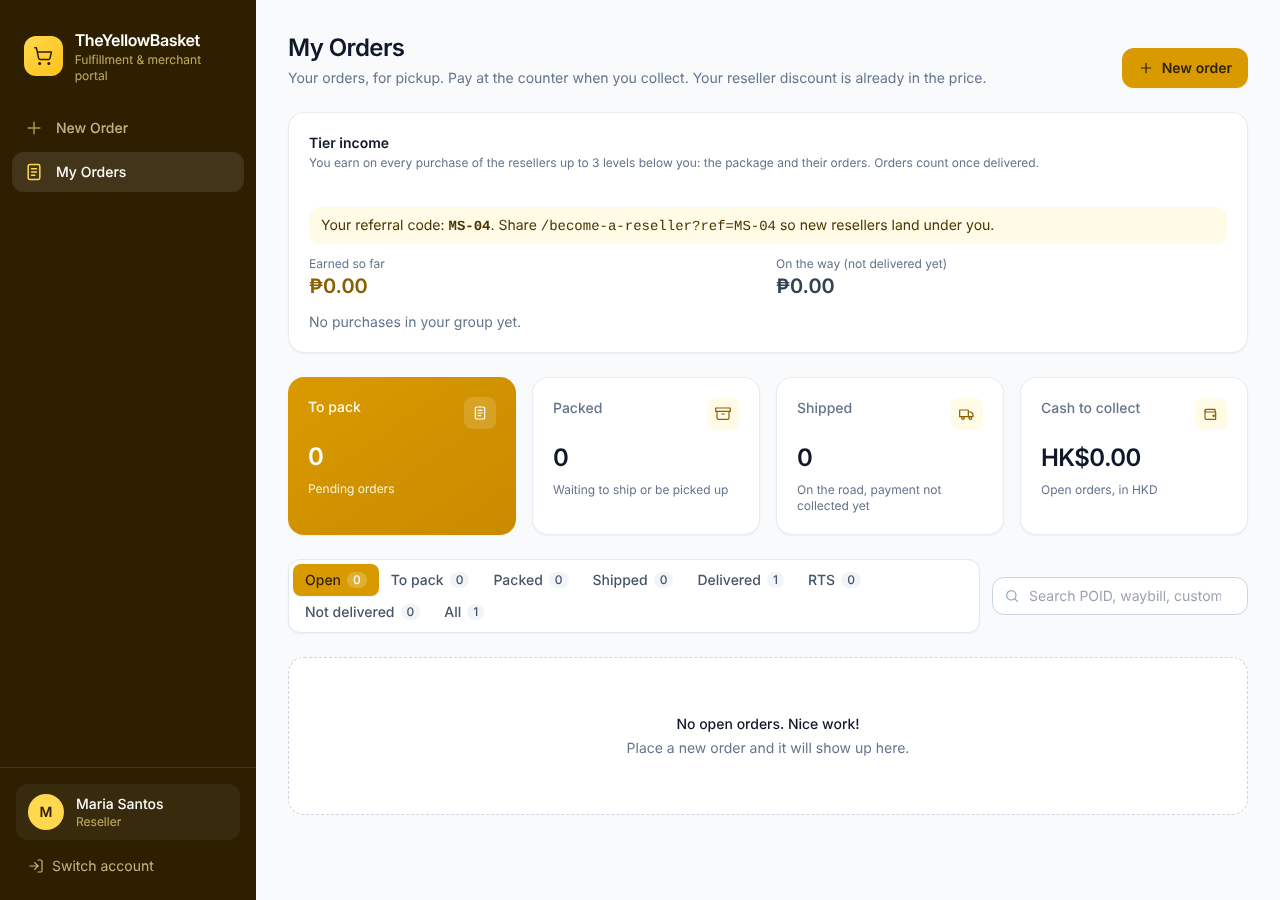
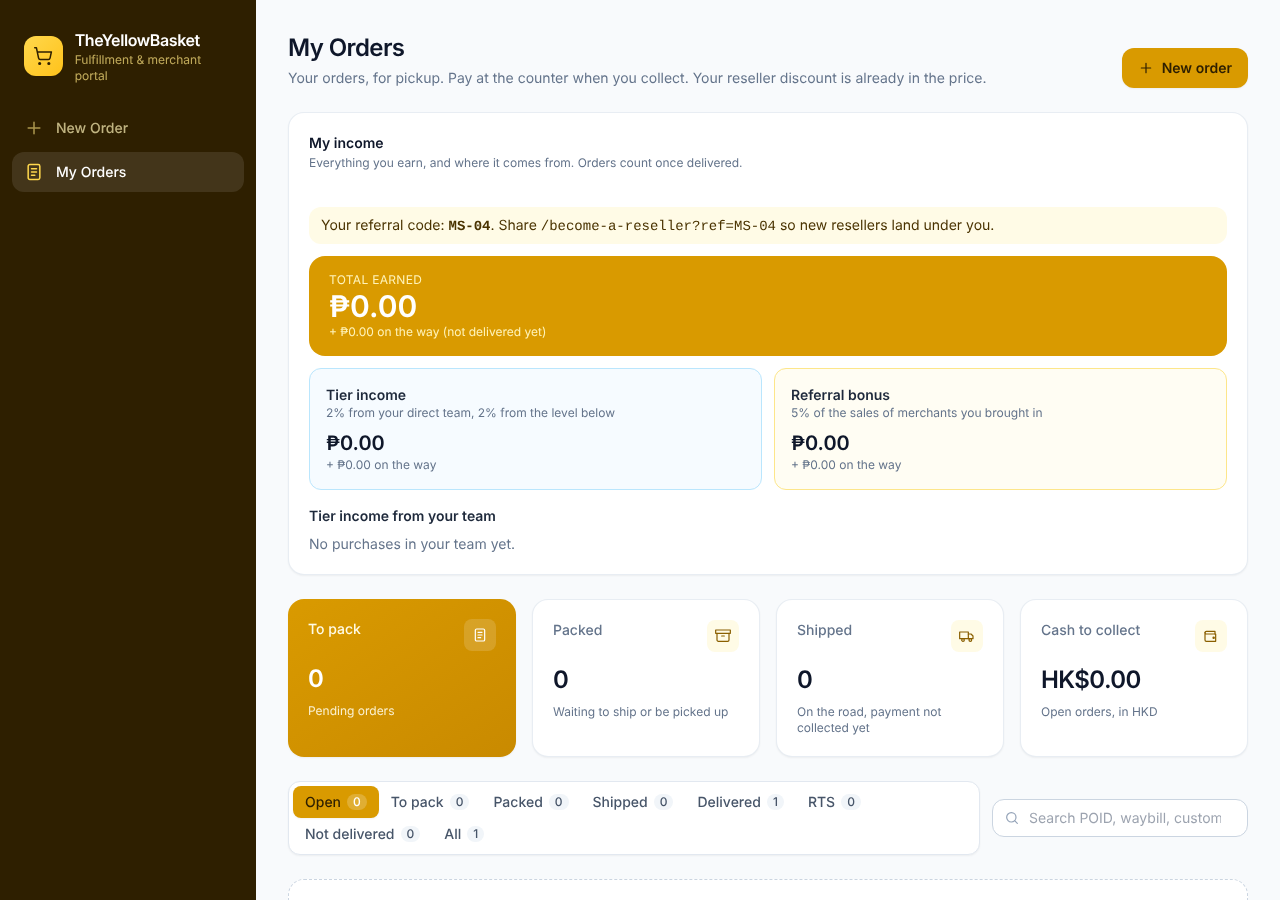
Referral bonus: referrer per merchant, income wallet with tier and referral breakdown
Claude-Session: https://claude.ai/code/session_01PscwmJvon7EWf21vZUWiBD

diff --git a/components/orders/IncomeWalletCard.tsx b/components/orders/IncomeWalletCard.tsx
@@ -1,0 +1,94 @@
+'use client';
+
+import { useMemo } from 'react';
+import { Card } from '@/components/ui/Card';
+import { formatCurrency, formatDate } from '@/lib/format';
+import { tierIncome } from '@/lib/orders';
+import { referralRows } from '@/lib/referral';
+import { useAppData } from '@/lib/store';
+import type { Order, PackageSale } from '@/lib/types';
+
+/** A reseller's income wallet: the total, and where each peso came from (tier income, referral bonus). */
+export function IncomeWalletCard({ userId, sales, orders, refCode }: { userId: string; sales: PackageSale[]; orders: Order[]; refCode?: string }) {
+  const { costing, merchants } = useAppData();
+  const tier = useMemo(() => tierIncome(sales, orders, userId), [sales, orders, userId]);
+  const referral = useMemo(() => referralRows(costing, merchants, orders, userId), [costing, merchants, orders, userId]);
+  const referralEarned = referral.reduce((n, r) => n + r.earnedPhp, 0);
+  const referralPending = referral.reduce((n, r) => n + r.pendingPhp, 0);
+  const total = tier.total + referralEarned;
+  const pending = tier.pending + referralPending;
+  const { tierL1Pct, tierL2Pct, referrerPct } = costing.settings;
+
+  const source = (title: string, hint: string, earned: number, onTheWay: number, tone: string) => (
+    <div className={`rounded-xl border p-4 ${tone}`}>
+      <p className="text-sm font-semibold text-slate-800">{title}</p>
+      <p className="text-xs text-slate-500">{hint}</p>
+      <p className="mt-2 text-xl font-semibold text-slate-900">{formatCurrency(earned)}</p>
+      <p className="text-xs text-slate-500">+ {formatCurrency(onTheWay)} on the way</p>
+    </div>
+  );
+
+  return (
+    <Card title="My income" subtitle="Everything you earn, and where it comes from. Orders count once delivered.">
+      {refCode ? (
+        <p className="mt-3 rounded-xl bg-emerald-50 px-3 py-2 text-sm text-emerald-900">
+          Your referral code: <span className="font-mono font-semibold">{refCode}</span>. Share{' '}
+          <span className="font-mono">/become-a-reseller?ref={refCode}</span> so new resellers land under you.
+        </p>
+      ) : null}
+
+      <div className="mt-3 rounded-2xl bg-emerald-500 px-5 py-4 text-emerald-950">
+        <p className="text-xs font-medium uppercase tracking-wide text-emerald-950/70">Total earned</p>
+        <p className="text-3xl font-semibold text-emerald-950">{formatCurrency(total)}</p>
+        <p className="text-xs text-emerald-950/70">+ {formatCurrency(pending)} on the way (not delivered yet)</p>
+      </div>
+
+      <div className="mt-3 grid gap-3 sm:grid-cols-2">
+        {source('Tier income', `${tierL1Pct}% from your direct team, ${tierL2Pct}% from the level below`, tier.total, tier.pending, 'border-sky-200 bg-sky-50/60')}
+        {source('Referral bonus', `${referrerPct}% of the sales of merchants you brought in`, referralEarned, referralPending, 'border-amber-200 bg-amber-50/60')}
+      </div>
+
+      {referral.length > 0 ? (
+        <div className="mt-4">
+          <p className="text-sm font-semibold text-slate-800">Merchants you brought in</p>
+          <ul className="mt-2 divide-y divide-slate-100 rounded-xl border border-slate-100 text-sm">
+            {referral.map((row) => (
+              <li key={row.merchantId} className="flex flex-wrap items-center justify-between gap-2 px-3 py-2">
+                <span>
+                  {row.merchantName}
+                  <span className="ml-2 text-xs text-slate-500">{row.orders} delivered order{row.orders === 1 ? '' : 's'}</span>
+                </span>
+                <span className="font-semibold text-emerald-700">
+                  {formatCurrency(row.earnedPhp)}
+                  {row.pendingPhp > 0 ? <span className="ml-2 text-xs font-normal text-slate-500">+ {formatCurrency(row.pendingPhp)} on the way</span> : null}
+                </span>
+              </li>
+            ))}
+          </ul>
+        </div>
+      ) : null}
+
+      <div className="mt-4">
+        <p className="text-sm font-semibold text-slate-800">Tier income from your team</p>
+        {tier.rows.length === 0 ? (
+          <p className="mt-2 text-sm text-slate-500">No purchases in your team yet.</p>
+        ) : (
+          <ul className="mt-2 divide-y divide-slate-100 rounded-xl border border-slate-100 text-sm">
+            {tier.rows.slice(0, 10).map((row) => (
+              <li key={`${row.ref}-${row.level}`} className="flex flex-wrap items-center justify-between gap-2 px-3 py-2">
+                <span>
+                  {row.name}
+                  <span className="ml-2 text-xs text-slate-500">
+                    {row.kind === 'package' ? 'Package' : row.ref} · Level {row.level} · {formatDate(row.date)}
+                    {row.earned ? '' : ' · on the way'}
+                  </span>
+                </span>
+                <span className={`font-semibold ${row.earned ? 'text-emerald-700' : 'text-slate-500'}`}>{formatCurrency(row.php)}</span>
+              </li>
+            ))}
+          </ul>
+        )}
+      </div>
+    </Card>
+  );
+}

diff --git a/components/resellers/ResellersView.tsx b/components/resellers/ResellersView.tsx
@@ -7,13 +7,14 @@ import { InviteActions } from '@/components/team/InviteActions';
 import { StatCard } from '@/components/ui/StatCard';
 import { useAuth } from '@/lib/auth';
 import { formatCurrency, formatDate, formatHkd } from '@/lib/format';
+import { referralRows } from '@/lib/referral';
 import { resellerLedger, resellerSummaries } from '@/lib/reseller';
 import { useAppData } from '@/lib/store';
 
 /** Admin and cashier: every reseller, what they got in discount and tier income, and the split of each purchase. */
 export function ResellersView() {
   const { user } = useAuth();
-  const { users, items, orders, packageSales, costing, outbox } = useAppData();
+  const { users, items, orders, packageSales, costing, outbox, merchants, setMerchantReferrer } = useAppData();
   const { settings } = costing;
   const nameOf = (id: string) => users.find((candidate) => candidate.id === id)?.name ?? id;
   const ledger = useMemo(() => resellerLedger(orders, packageSales, items, settings.markupPct, settings.referrerPct + settings.systemFeePct), [orders, packageSales, items, settings.markupPct, settings.referrerPct, settings.systemFeePct]);
@@ -40,6 +41,51 @@ export function ResellersView() {
           <StatCard label="Tier income paid" value={formatCurrency(tierPaid)} hint={`up to ${tierPct}% of the SRP`} />
           <StatCard label="SDSI net" value={formatCurrency(sum((row) => row.netPhp))} hint="top-up − discount − tier income" variant="primary" />
         </div>
+      ) : null}
+
+      {user.role === 'admin' ? (
+        <Card title="Referral bonus" subtitle={`Whoever brought a merchant in earns ${settings.referrerPct}% of that merchant's Net SRP on every delivered order. Pick the referrer of each merchant.`}>
+          <div className="mt-3 overflow-x-auto">
+            <table className="min-w-full text-sm">
+              <thead className="text-left text-xs text-slate-500">
+                <tr>
+                  <th className="py-2 pr-4 font-medium">Merchant</th>
+                  <th className="py-2 pr-4 font-medium">Referrer</th>
+                  <th className="py-2 pr-4 text-right font-medium">Delivered orders</th>
+                  <th className="py-2 pr-4 text-right font-medium">Bonus earned</th>
+                  <th className="py-2 text-right font-medium">On the way</th>
+                </tr>
+              </thead>
+              <tbody className="divide-y divide-slate-100">
+                {merchants.map((merchant) => {
+                  const link = (costing.referrals ?? []).find((candidate) => candidate.merchantId === merchant.id);
+                  const row = link ? referralRows(costing, merchants, orders, link.userId).find((r) => r.merchantId === merchant.id) : undefined;
+                  return (
+                    <tr key={merchant.id}>
+                      <td className="py-2 pr-4 font-medium text-slate-800">{merchant.name}</td>
+                      <td className="py-2 pr-4">
+                        <select
+                          aria-label={`Referrer of ${merchant.name}`}
+                          value={link?.userId ?? ''}
+                          onChange={(event) => void setMerchantReferrer(user, merchant.id, event.target.value || null)}
+                          className="rounded-lg border border-slate-300 bg-white px-2 py-1.5 text-sm"
+                        >
+                          <option value="">No referrer</option>
+                          {users.filter((candidate) => candidate.role === 'customer').map((candidate) => (
+                            <option key={candidate.id} value={candidate.id}>{candidate.name}</option>
+                          ))}
+                        </select>
+                      </td>
+                      <td className="py-2 pr-4 text-right">{row?.orders ?? '—'}</td>
+                      <td className="py-2 pr-4 text-right font-semibold text-emerald-700">{row ? formatCurrency(row.earnedPhp) : '—'}</td>
+                      <td className="py-2 text-right text-slate-500">{row ? formatCurrency(row.pendingPhp) : '—'}</td>
+                    </tr>
+                  );
+                })}
+              </tbody>
+            </table>
+          </div>
+        </Card>
       ) : null}
 
       <Card title="Resellers" subtitle="Delivered orders only. The package counts once it is paid.">

diff --git a/lib/store.tsx b/lib/store.tsx
@@ -26,7 +26,7 @@ import {
   MOCK_USERS,
   MOCK_PACKAGE_SALES,
 } from './mock-data';
-import type { CostingRow, CostingSettings, CostingState } from './costing';
+import type { CostingRow, CostingSettings, CostingState, ReferralLink } from './costing';
 import type {
   InventoryItem,
   MasterProduct,
@@ -152,6 +152,7 @@ export interface AppDataValue {
   goLiveCostingRow: (actor: Actor, rowId: string) => Promise<ActionResult<CostingRow>>;
   setSkuDisabled: (actor: Actor, itemId: string, disabled: boolean) => Promise<ActionResult<InventoryItem>>;
   setProgramMerchant: (actor: Actor, merchantId: string, on: boolean) => Promise<ActionResult<string[]>>;
+  setMerchantReferrer: (actor: Actor, merchantId: string, userId: string | null) => Promise<ActionResult<ReferralLink[]>>;
   setSkuReseller: (actor: Actor, itemId: string, inProgram: boolean) => Promise<ActionResult<InventoryItem>>;
   addSku: (actor: Actor, input: engine.NewSkuInput) => Promise<ActionResult<InventoryItem>>;
   setSkuSrp: (actor: Actor, itemId: string, srp: number) => Promise<ActionResult<InventoryItem>>;
@@ -188,6 +189,7 @@ const createInitialState = (): AppState => ({
     rows: MOCK_COSTING.rows.map((row) => ({ ...row })),
     log: [],
     programMerchantIds: [...MOCK_COSTING.programMerchantIds],
+    referrals: (MOCK_COSTING.referrals ?? []).map((link) => ({ ...link })),
   },
   users: MOCK_USERS.map((user) => ({ ...user })),
   outbox: [],
@@ -321,6 +323,8 @@ export function AppDataProvider({ children }: { children: ReactNode }) {
       approveCostingRow: (actor, rowId) => run((s) => engine.approveCostingRow(s, actor, rowId, nowISO())),
       revokeApproval: (actor, rowId) => run((s) => engine.revokeApproval(s, actor, rowId, nowISO())),
       goLiveCostingRow: (actor, rowId) => run((s) => engine.goLiveCostingRow(s, actor, rowId, nowISO())),
+      setMerchantReferrer: (actor, merchantId, userId) =>
+        run((st) => engine.setMerchantReferrer(st, actor, merchantId, userId, nowISO())),
       setProgramMerchant: (actor, merchantId, on) =>
         run((s) => engine.setProgramMerchant(s, actor, merchantId, on, nowISO())),
       setSkuReseller: (actor, itemId, inProgram) =>

diff --git a/lib/referral.ts b/lib/referral.ts
@@ -1,0 +1,37 @@
+import { roundMoney } from './format';
+import type { CostingState, ReferralLink } from './costing';
+import { orderTotal } from './orders';
+import type { Merchant, Order } from './types';
+
+export interface ReferralRow {
+  merchantId: string;
+  merchantName: string;
+  orders: number;
+  earnedPhp: number;
+  pendingPhp: number;
+}
+
+/** Stats of one referral link: 5% (or the set %) of the Net SRP of the merchant's orders. Delivered = earned, still open = on the way. */
+export function referralStats(orders: Order[], merchantId: string, pct: number): NonNullable<ReferralLink['stats']> {
+  let delivered = 0;
+  let open = 0;
+  let count = 0;
+  for (const order of orders) {
+    if (order.merchantId !== merchantId || order.status === 'cancelled' || order.status === 'rts') continue;
+    if (order.status === 'delivered') {
+      delivered += orderTotal(order);
+      count += 1;
+    } else open += orderTotal(order);
+  }
+  return { orders: count, earnedPhp: roundMoney((delivered * pct) / 100), pendingPhp: roundMoney((open * pct) / 100) };
+}
+
+/** The merchants a person brought in, with what they earned from each. Uses the server's numbers when present. */
+export function referralRows(costing: CostingState, merchants: Merchant[], orders: Order[], userId: string): ReferralRow[] {
+  return (costing.referrals ?? [])
+    .filter((link) => link.userId === userId)
+    .map((link) => {
+      const stats = link.stats ?? referralStats(orders, link.merchantId, costing.settings.referrerPct);
+      return { merchantId: link.merchantId, merchantName: merchants.find((m) => m.id === link.merchantId)?.name ?? link.merchantId, ...stats };
+    });
+}

diff --git a/lib/engine.ts b/lib/engine.ts
@@ -23,6 +23,7 @@ import {
   type CostingRow,
   type CostingSettings,
   type CostingState,
+  type ReferralLink,
 } from './costing';
 import { provisionReseller, validateCredentials } from './accounts';
 import { demandOfLines, emptySplit, expiryOf, holderAt, makeStockBook, moveUnits, reservedUnits } from './stock';
@@ -1114,6 +1115,27 @@ export function setProgramMerchant(
       programMerchantIds: ids,
     }),
     value: ids,
+  };
+}
+
+/** Admin: who brought a merchant in (earns the referral bonus), or null to clear. */
+export function setMerchantReferrer(
+  state: AppState,
+  actor: Actor,
+  merchantId: string,
+  userId: string | null,
+  now: string,
+): Outcome<ReferralLink[]> {
+  const denied = costingGuard(actor);
+  if (denied) return denied;
+  if (userId !== null && !state.users.some((user) => user.id === userId && user.role === 'customer')) return fail('Pick a reseller account as the referrer.');
+  const rest = (state.costing.referrals ?? []).filter((link) => link.merchantId !== merchantId);
+  const referrals = userId === null ? rest : [...rest, { merchantId, userId }];
+  const who = userId ? state.users.find((user) => user.id === userId)?.name ?? userId : 'nobody';
+  return {
+    ok: true,
+    state: logged(state, actor, now, 'Referrer of a merchant changed', [`${merchantId}: ${who}`], { referrals }),
+    value: referrals,
   };
 }
 

diff --git a/lib/server/scope.ts b/lib/server/scope.ts
@@ -3,6 +3,7 @@
  * so a merchant never holds another merchant's orders and a reseller never holds the costing.
  * Server only.
  */
+import { referralStats } from '../referral';
 import type { AppState } from '../engine';
 import { LEGACY_BRANCH, type InventoryItem, type MasterProduct, type Merchant, type Order, type PackageSale, type User } from '../types';
 
@@ -83,7 +84,11 @@ export function scopeFor(me: User, state: AppState, merchantList: Merchant[]): S
   }
 
   // Everyone but the admin gets the costing without the mark-up and its change log.
-  const costing = { ...state.costing, settings: { ...state.costing.settings, markupPct: 0 }, log: [] };
+  // A reseller sees only the merchants they brought in, with the numbers worked out here (they cannot see those orders).
+  const referrals = (state.costing.referrals ?? [])
+    .filter((link) => link.userId === me.id)
+    .map((link) => ({ ...link, stats: referralStats(state.orders, link.merchantId, state.costing.settings.referrerPct) }));
+  const costing = { ...state.costing, settings: { ...state.costing.settings, markupPct: 0 }, log: [], referrals };
 
   if (me.role === 'merchant') {
     const mine = (merchantId: string) => merchantId === me.merchantId;

diff --git a/components/orders/OrdersView.tsx b/components/orders/OrdersView.tsx
@@ -3,7 +3,7 @@
 import Link from 'next/link';
 import { useEffect, useMemo, useState } from 'react';
 import { OrderCard } from '@/components/orders/OrderCard';
-import { TierIncomeCard } from '@/components/orders/TierIncomeCard';
+import { IncomeWalletCard } from '@/components/orders/IncomeWalletCard';
 import { PageHeader } from '@/components/layout/PageHeader';
 import { Icon } from '@/components/ui/Icon';
 import { StatCard } from '@/components/ui/StatCard';
@@ -122,7 +122,7 @@ export function OrdersView() {
         }
       />
 
-      {isReseller && user ? <TierIncomeCard userId={user.id} sales={packageSales} orders={orders} refCode={user.refCode} /> : null}
+      {isReseller && user ? <IncomeWalletCard userId={user.id} sales={packageSales} orders={orders} refCode={user.refCode} /> : null}
 
       <div className="grid gap-4 sm:grid-cols-2 xl:grid-cols-4">
         <StatCard

diff --git a/lib/server/actions.ts b/lib/server/actions.ts
@@ -42,6 +42,7 @@ export const ACTIONS: Record<string, Handler> = {
   approveRelease: (st, ac, a, now) => engine.approveRelease(st, ac, s(a.remittanceId), now),
   rejectRelease: (st, ac, a, now) => engine.rejectRelease(st, ac, s(a.remittanceId), s(a.reason), now),
   setSkuDisabled: (st, ac, a, now) => engine.setSkuDisabled(st, ac, s(a.itemId), a.disabled === true, now),
+  setMerchantReferrer: (st, ac, a, now) => engine.setMerchantReferrer(st, ac, s(a.merchantId), a.userId ? s(a.userId) : null, now),
   setProgramMerchant: (st, ac, a, now) => engine.setProgramMerchant(st, ac, s(a.merchantId), a.on === true, now),
   setSkuReseller: (st, ac, a, now) => engine.setSkuReseller(st, ac, s(a.itemId), a.inProgram === true, now),
   addSku: (st, ac, a, now) => engine.addSku(st, ac, a.input as never, now),

diff --git a/lib/costing.ts b/lib/costing.ts
@@ -114,6 +114,15 @@ export interface CostingState {
   log: CostingLogEntry[];
   /** Reseller program: merchants whose products carry the reseller discount and the unilevel commission. */
   programMerchantIds: string[];
+  /** Referral bonus: the person who brought a merchant in earns the referrer % of that merchant's delivered Net SRP. */
+  referrals?: ReferralLink[];
+}
+
+export interface ReferralLink {
+  merchantId: string;
+  userId: string;
+  /** Filled by the server for the referrer's own view (they cannot see the orders themselves). */
+  stats?: { orders: number; earnedPhp: number; pendingPhp: number };
 }
 
 /** In the reseller program: the merchant is in it and the SKU was not switched off. The package itself never gets the discount. */

diff --git a/lib/remote.tsx b/lib/remote.tsx
@@ -204,6 +204,7 @@ export function RemoteProviders({ children }: { children: ReactNode }) {
       revokeApproval: (_a, rowId) => call('revokeApproval', { rowId }),
       goLiveCostingRow: (_a, rowId) => call('goLiveCostingRow', { rowId }),
       setSkuDisabled: (_a, itemId, disabled) => call('setSkuDisabled', { itemId, disabled }),
+      setMerchantReferrer: (_a, merchantId, userId) => call('setMerchantReferrer', { merchantId, userId }),
       setProgramMerchant: (_a, merchantId, on) => call('setProgramMerchant', { merchantId, on }),
       setSkuReseller: (_a, itemId, inProgram) => call('setSkuReseller', { itemId, inProgram }),
       addSku: (_a, input) => call('addSku', { input }),

diff --git a/lib/mock-data.ts b/lib/mock-data.ts
@@ -383,6 +383,7 @@ export const MOCK_COSTING: CostingState = {
   rows: buildDemoCosting(MOCK_INVENTORY),
   log: [],
   programMerchantIds: ['mrc-4'],
+  referrals: [{ merchantId: 'mrc-4', userId: 'usr-c1' }],
 };
 
 function generateOrders(): Order[] {
